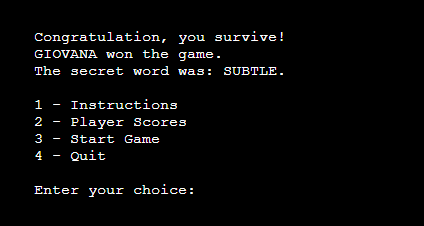
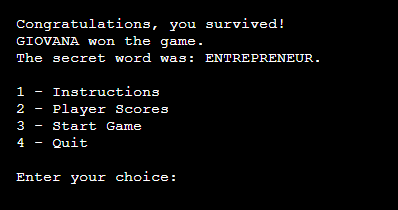
Add print number of letters(secret word)

Changed region(s): [[0.0302, 0.0857, 0.8141, 0.3429], [0.0302, 0.4, 0.4523, 0.7143], [0.0302, 0.8, 0.4824, 0.8857]]

diff --git a/run.py b/run.py
@@ -120,6 +120,8 @@ while True:
                 else:
                     print("Invalid name. Please enter a name with at least 3 letters and containing only letters.")  # noqa
 
+            print("Number of letters in the secret word: ", len(select_word))
+            
             atual_player = player
 
             # identifying player
@@ -215,6 +217,8 @@ while True:
                     break
                 else:
                     print("Invalid name. Please enter a name with at least 3 letters and containing only letters.")  # noqa
+
+            print("Number of letters in the secret word: ", len(select_word))
 
             atual_player = player_01
 
